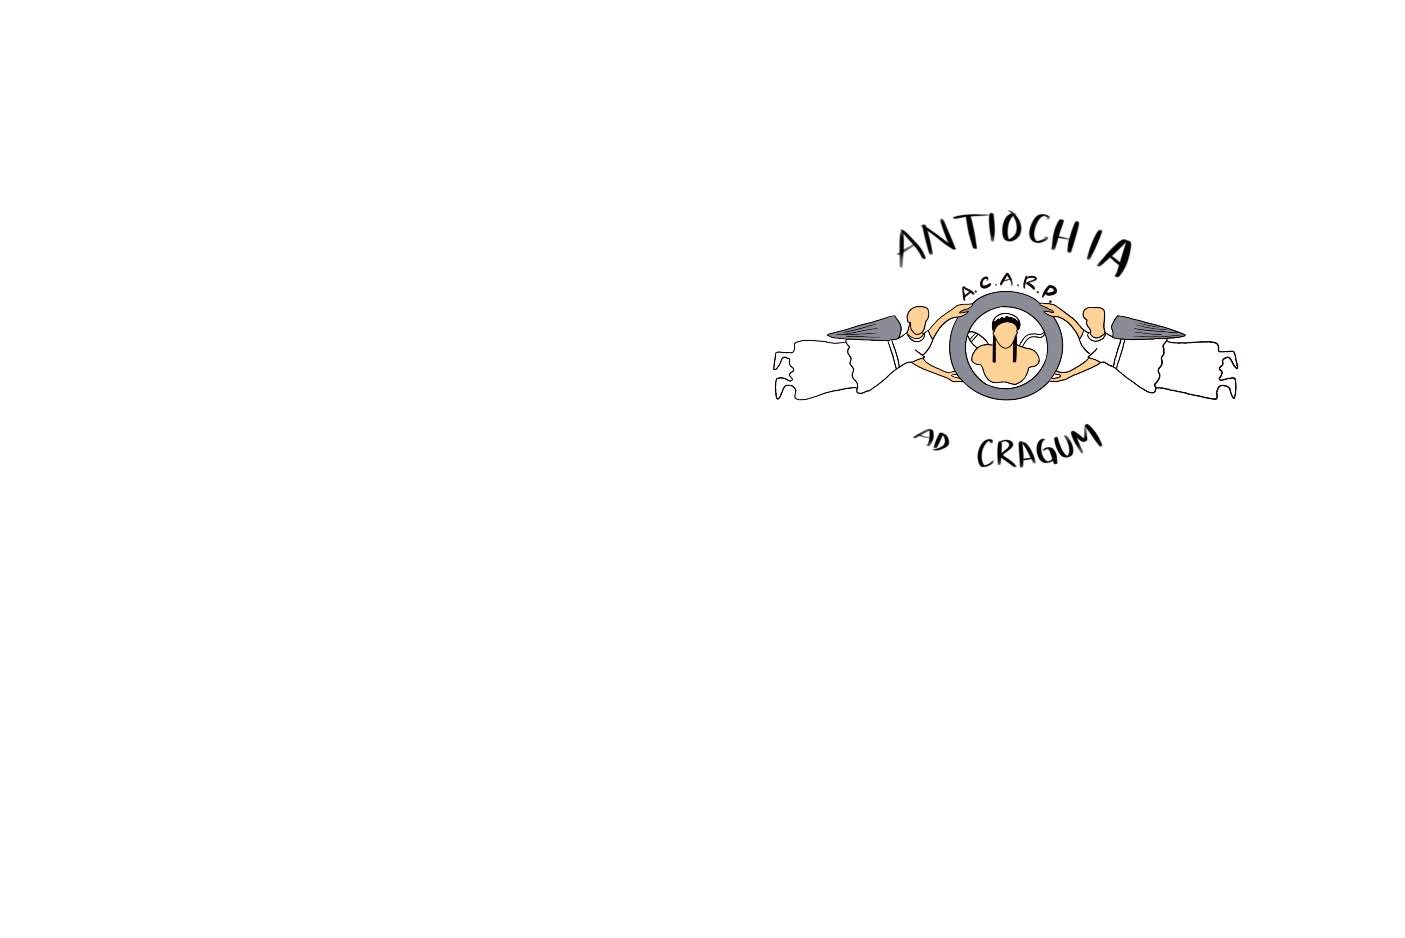
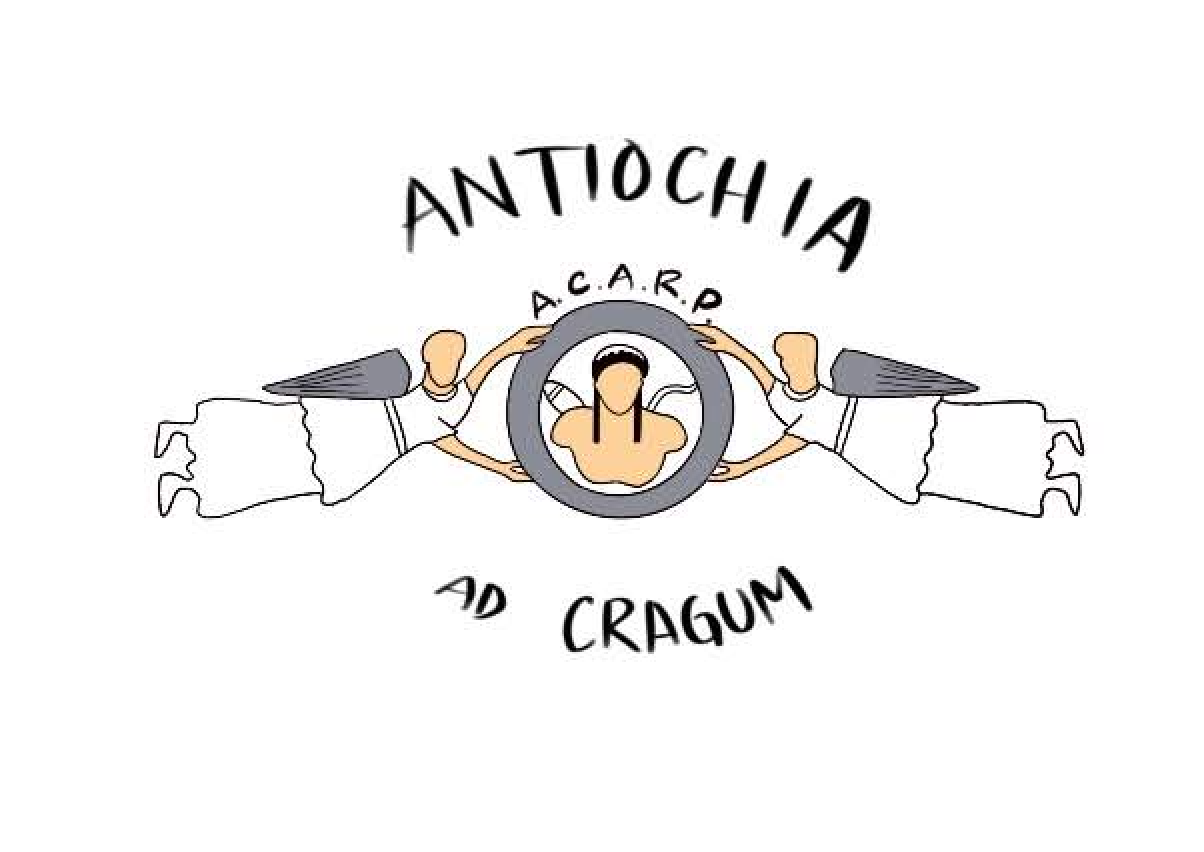
TTS
resize image

Changed region(s): [[0.1229, 0.1526, 0.9219, 0.6103], [0.461, 0.6714, 0.6761, 0.7629], [0.3688, 0.6714, 0.4302, 0.7324]]

diff --git a/main/STO/OtherWorks.html b/main/STO/OtherWorks.html
@@ -265,7 +265,7 @@
                 <figcaption></figcaption>
             </div>
              <div class="mySlides">
-                <img src="" style="width:100%">
+                <img src="/Content/images/STO/More/ASCN_draft2.jpg" style="width:100%">
                 <figcaption></figcaption>
             </div>
     <!-------------------------------->
